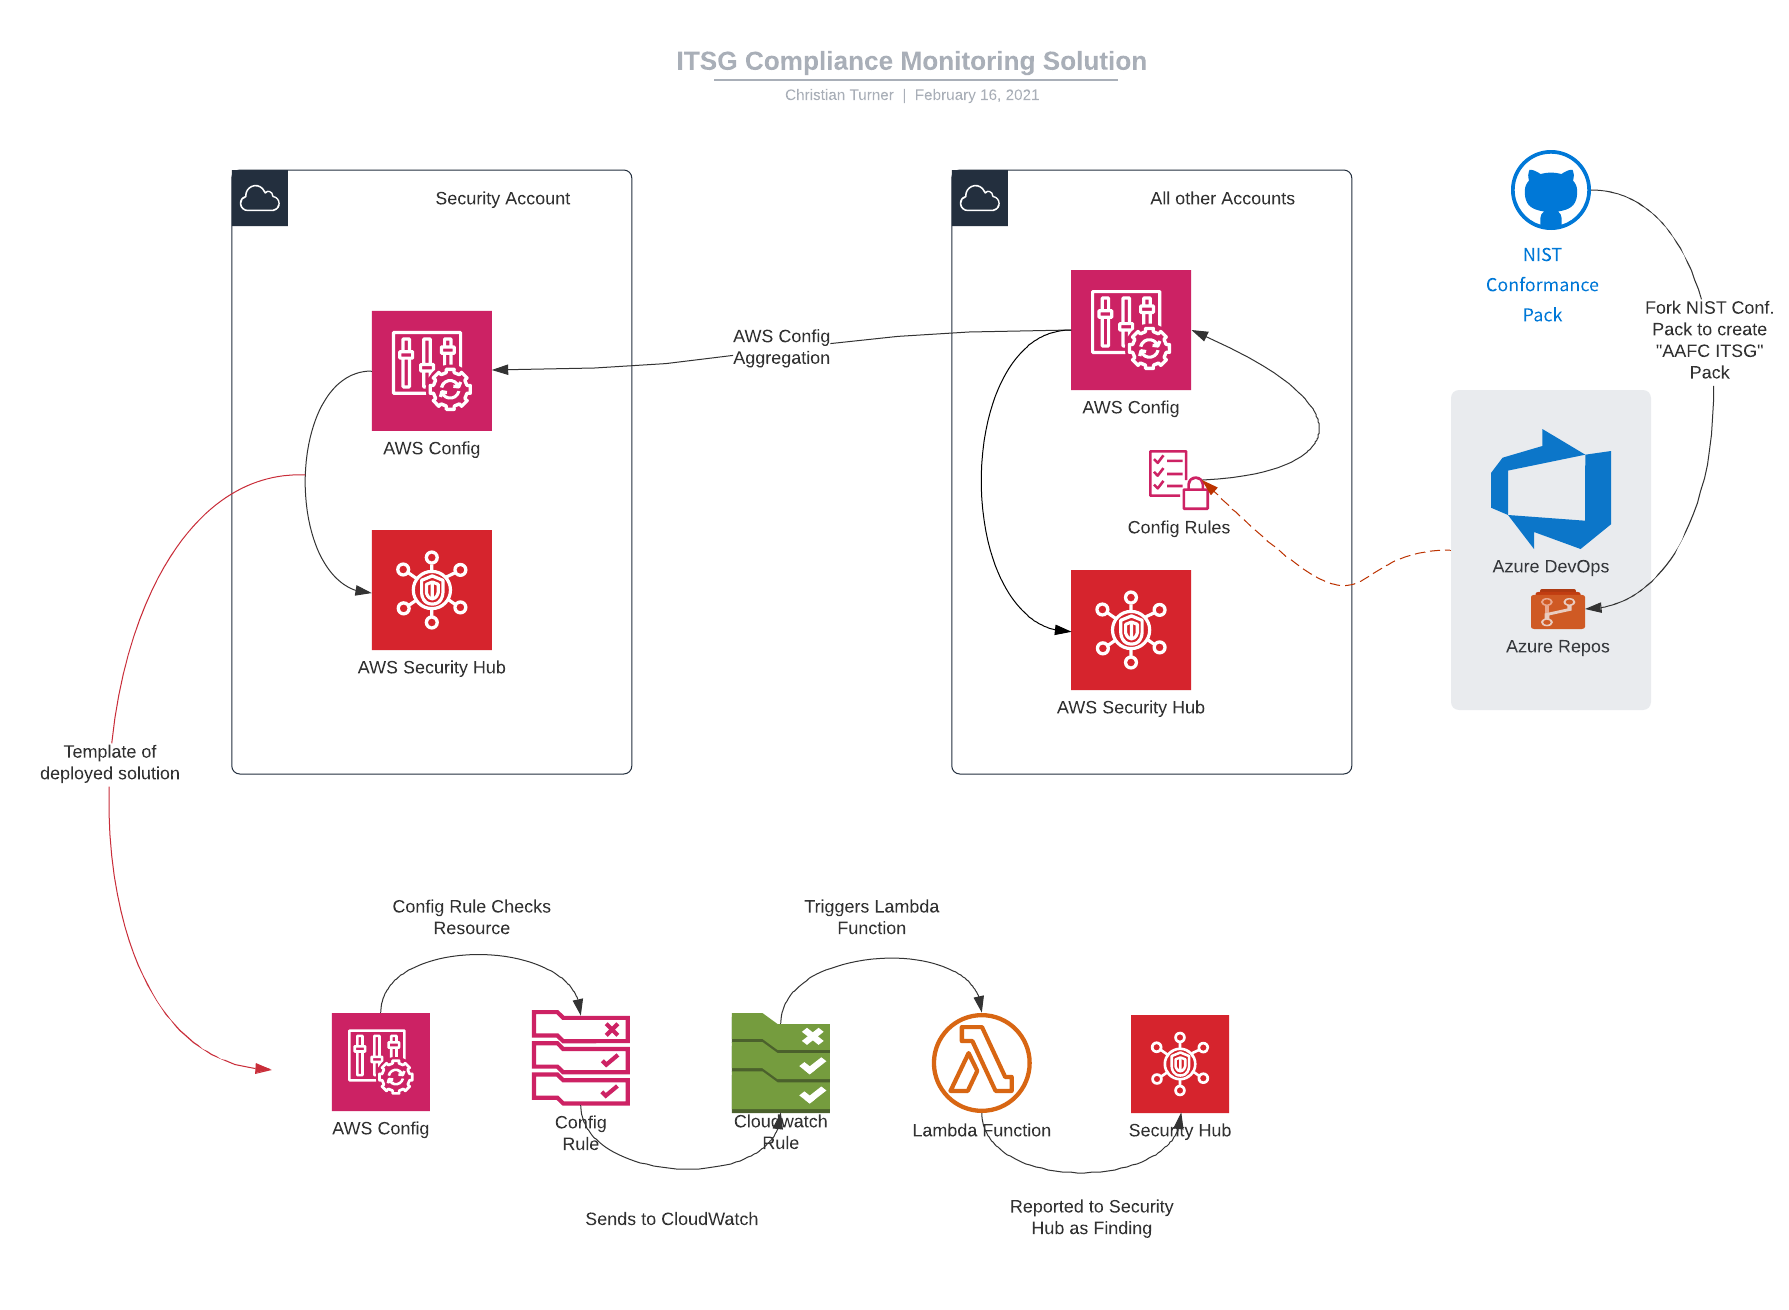
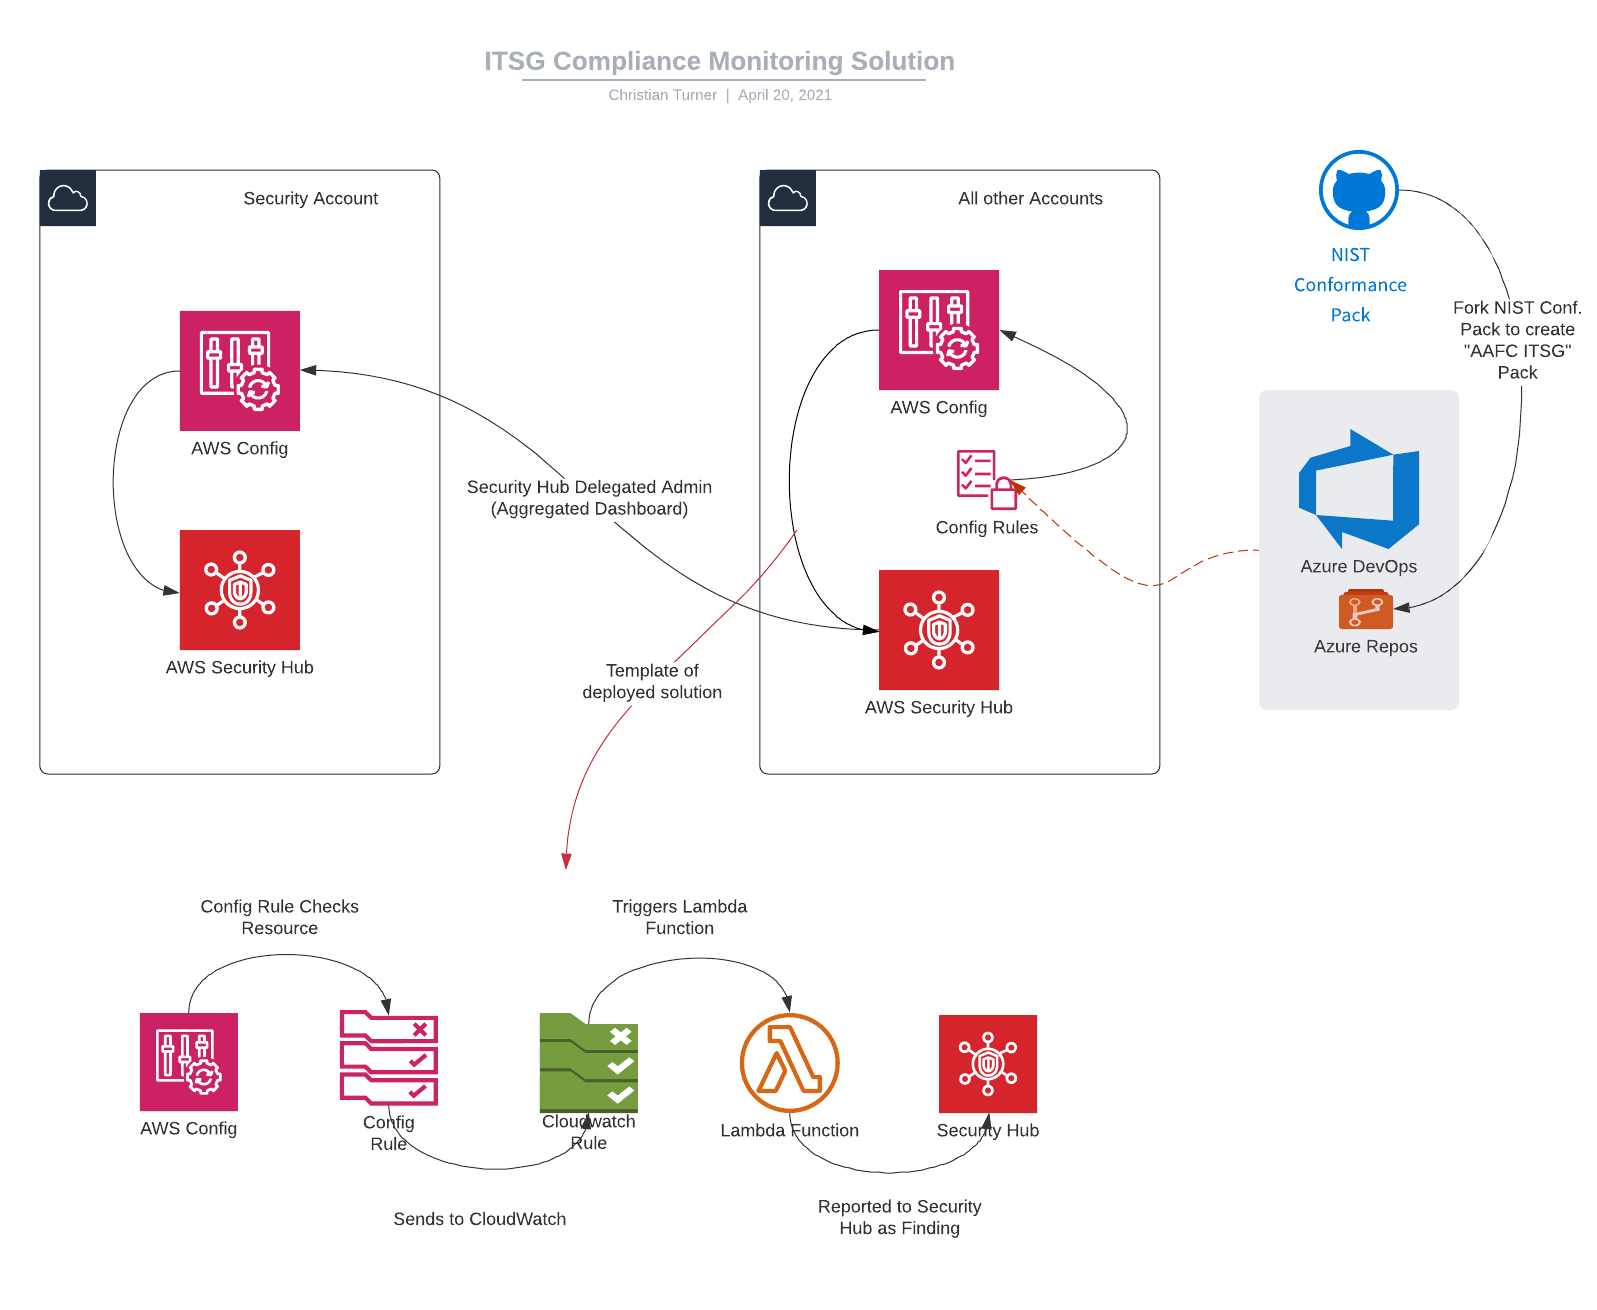
Updated documentation

diff --git a/README.md b/README.md
@@ -5,9 +5,11 @@
 ## Summary
 
 The OCC Compliance Monitoring Solution is deployed to include the following primary services;
-  + AWS Config - NIST 800-53 Rules with customized definitions
+  + AWS Config - Rules based on NIST 800-53 with customized definitions
   + Security Hub
   + Parameter Store
+  + Lambda Function - Forwards AWS Config changes to Security Hub and assigns Severity
+  + Lambda Function - Enables Organizational Delegated Administration to 'Security' account
 
 ![Compliance Monitoring Solution](./images/itsg_compliance_monitoring_solution_overview.png)
 
@@ -15,149 +17,69 @@ The OCC Compliance Monitoring Solution is deployed to include the following prim
 
 #### Order of operations
 
-+ CLI to configure AWS Organizations 
-
-#### Direct API & CLI Functions
-
-+ Create AWS Account 'Security' as Organizations Delegated Administrator 
++ Validation that Security Hub is *NOT* enabled in any AWS Accounts
++ Validation that Organizational Service Control Policies permit the Security Hub actions
++ Terraform parameter configuration
++ Creation of CodePipeline artifact from ./src folder into ./artifacts folder
++ Creation of Lambda Forwarder artifact from ./src folder into ./artifacts folder
++ Deployment of Terraform Code
 
 #### IaC Templates
 
-*Organization Root Account (MRA)*
-+ AWSC Config AWS Stackset (Rules & Import Findings)
+| Short Name | Type | Purpose | filename |
+| --- | --- |--- | --- |
+| Pipeline Deployment | Terraform (v 0.15) | Deploys Pipeline and copies artifacts | ./pipeline.tf |
+| AWS Security Hub | Cloudformation |Enables Security Hub across AWS Organization | ./src/enable-sechub.yml |
+| ITSG Config Rules | Cloudformation |Deploys AWS Config Rules to monitor resources for compliance | ./src/config-rules.yml |
+| SecHub Forwarder | Cloudformation |Deploys the Lambda Function that forwards AWS Config 'change-of-state' results to Security Hub | ./src/config_sechub_integration.yml |
+| SecHub Forwarder | Lambda (Python 3.8) | Lambda Python script that assigns severity to AWS Config results and forwards to Security Hub service | ./src/lambda_map_config_findings_to_sechub.py |
+| SecHub Enabler | Lambda (Python 3.8) | Lambda Python script to configure Security Hub Delegated Admin to the AWS Account named 'Security' | ./src/sechub_enabler.py |
 
-## AWS Config Rules
+#### CloudFormation StackSets
 
-The AWS Config Rules are derived from the NIST 800-53 Conformance Pack.  They are deployed individually to permit us to link to an SSM Parameter Store which is tagged with the ITSG Control ID, as well integrate remediation actions as required.  ITSG rules are deployed only into the Canada region, as this is the only region in which we have deployed infrastrucutre.
+AWS CloudFormation StackSets enables you to create, update, or delete stacks across multiple AWS accounts and AWS Regions with a single operation. StackSets integration with AWS Organizations enables you to create stack sets with service-managed permissions, using a service-linked role that has the relevant permission in each member account. This lets you deploy stack instances to member accounts in your organization. You don't have to create the necessary AWS Identity and Access Management roles; StackSets creates the IAM role in each member account on your behalf. You can also choose to enable automatic deployments to accounts that are added to your organization in the future.
+
+With trusted access between StackSets and Organizations enabled, the management account has permissions to create and manage stack sets for your organization. The management account can register up to five member accounts as delegated administrators. With trusted access enabled, delegated administrators also have permissions to create and manage stack sets for your organization. Stack sets with service-managed permissions are created in the management account, including stack sets that are created by delegated administrators. 
+
+Our deployment via CloudFormation StackSets, against the Organization Root, enables a simplistic 'set-it-and-forget-it' approach for deployment.  StackSets will be deployed to existing AWS Accounts, and any additional AWS Accounts that are creaeted or onboarded to the Organization.
+
+### AWS Config Rules
+
+The AWS Config Rules are derived from the NIST 800-53 Conformance Pack.  They are deployed individually to permit us to link to an SSM Parameter Store which is tagged with the ITSG Control ID, as well integrate remediation actions as required.  By default there are no severity mappings available with AWS Config Rules, so we create a suffix with the severity.
+
+Our naming convention introduces a prefix to define the rule type, and a suffix to define the severity.
+
+![Config Rule Naming Convention](./images/awsconfig_naming_convention.png)
+
+The AWS Config Rules that are deployed are visible to roles that have permissions to work with AWS Config Rules.
 
 ![ITSG Config Rules](./images/awsconfig00.png)
 
-### Pre-requisites
+### Security Hub
 
-+ Authorization - Delegated Administrator:
-  Authorization is not required when using **Add my organization** to select source accounts.
-  - You must be signed in to the management account or a registered delegated administrator and all the features must be enabled in your organization. If the caller is a management account, AWS Config calls *EnableAwsServiceAccess* API to [enable integration](https://docs.aws.amazon.com/organizations/latest/APIReference/API_EnableAWSServiceAccess.html) between AWS Config and AWS Organizations. If the caller is a registered delegated administrator, AWS Config calls *ListDelegatedAdministrators* API to verify whether the caller is a valid delegated administrator.
-  - Ensure that the management account registers delegated administrator for AWS Config service principle name (config.amazonaws.com) before the delegated administrator creates an aggregator. To register a delegated administrator, see [Register a Delegated Administrator](https://docs.aws.amazon.com/config/latest/developerguide/set-up-aggregator-cli.html#register-a-delegated-administrator-cli).
+The Security Hub is configured to display dashboard based reports of Findings from default conformance packs.  The default packs can be utilised, but we supply a custom template replacing them to integrate findings from the Config Rules with specific tags to allocate them as ITSG validations.
 
-[Register a Delegated Administrator](https://docs.aws.amazon.com/config/latest/developerguide/set-up-aggregator-cli.html#register-a-delegated-administrator-cli)
-
-
-## Security Hub
-
-The Security Hub is configured to display dashboard based reports of Findings from default conformance packs.  The default packs are not utilised, with a custom template replacing them to integrate findings from the Config Rules.
+The Security Hub dashboard allows us to easily filter the Findings based on parameters, including the 'Starts with' filter to select 'itsg-' only rules.
 
 ![Security Hub Dashboard](./images/awssecurityhub00.png)
-![ITSG Compliance Dashboard](./images/aws_securityhub_dashboard.png)
 
-### Pre-requisites
+Additional dashboarding can be created, for example reporting on findings by 'Severity.'
 
-+ AWS Config:
-    The service must be enabled on all accounts, with recording enabled reccommended.  This is the default status for AWS Landing Zone deployments, and no action is required
-+ IAM Service Linked Role:  iam-service-linkedrole_AWSServiceRoleForSecurityHub
-    This role is deployed automatically if the service has been manually deployed in the past, and therefore may be pre-exisinting.
-+ Accounts and Regions:
-    If you use AWS Organizations to manage accounts, the organization management account designates the Security Hub administrator account. The Security Hub administrator account must be the same in all Regions. However, the organization management account must designate the Security Hub administrator account separately in each Region. The Security Hub administrator account also manages member accounts separately for each Region.
-    For member accounts created by invitation, the master-member account association is created only in the Region that the invitation is sent from. The master account must enable Security Hub in each Region that you want to use it in. The master account then invites each account to associate as a member account in that Region.
-+ Coordinating master accounts across services:
-    Security Hub aggregates findings from various AWS services, such as Amazon GuardDuty, Amazon Inspector, and Amazon Macie. Security Hub also allows users to pivot from a GuardDuty finding to start an investigation in Amazon Detective.
-    However, the master-member relationships that you set up in these other services do not automatically apply to Security Hub. Security Hub recommends that you use the same account as the master account for all of these services. This master account should be an account that is responsible for security tools. The same account should also be the aggregator account for AWS Config.
+![ITSG Compliance Dashboard Severity](./images/aws_securityhub_dashboard.png)
 
-## Security Hub Deployment
+#### Aggregated View
 
-### Manual Steps - Not supported via IaC
+The Security Hub Service utilises the AWS Organizations service to provide an aggregated view of ALL AWS Account Security Hub findings from the Security Account.  This provides the SecOps team with a consolidated dashboard across the entire AWS Landing Zone for all security findings.  Implementation within the Security Account provides a level of abstracted access that can only be accessed from SecOps roles with valid permissions.
 
-#### Designating a Security Hub administrator account (Security Hub API, AWS CLI)
+![Consolidated Dashboard](./images/aws_securityhub_accounts.png)
 
-To designate the Security Hub administrator account, you can use an API call or the AWS Command Line Interface. You must use the organization management account (Master Root Account) credentials.
+## Deployment Process
 
-To designate the Security Hub administrator account (Security Hub API, AWS CLI)
+As of Terraform 0.15, CloudFormation StackSets cannot be deployed against either OU or ROOT ids using AWS Organizations, and only iteratively against an expanding list of known accounts.  Whilst our preferred method of resource management and deployment is Terraform, utilizing just Terraform would require continuous running of the code to detect new accounts, and potential gaps in coverage between AWS Account creation and solution deployment.
 
-**Security Hub API** – Use the *EnableOrganizationAdminAccount* operation. You must provide the AWS account ID of the Security Hub administrator account.
+The deployment of StackSets against AWS Organizations is moved into a Terraform managed CodePipeline, with discrete stages for each of the types of components deployed.  This enables us a more granular method of management of the solution and the ability to deploy change with small targeted updates made only within the Pipeline steps with chage, whilst the steps that remain the same execute with no change required.
 
-**AWS CLI** – At the command line, run the *enable-organization-admin-account* command.
-
-```bash
-aws securityhub enable-organization-admin-account --admin-account-id <admin account ID>
-```
-
-Example
-
-```bash
-aws securityhub enable-organization-admin-account --admin-account-id 777788889999
-```
-
-#### Removing a Security Hub administrator account (Security Hub API, AWS CLI)
-
-To remove the Security Hub administrator account, you can use an API call or the AWS Command Line Interface. You must use the organization management account credentials.
-
-When you use the API or AWS CLI to remove the Security Hub administrator account, it is only removed in the Region where the API call or command was issued.
-
-To remove the Security Hub administrator account (Security Hub API, AWS CLI)
-
-**Security Hub API** – Use the *DisableOrganizationAdminAccount* operation. You must provide the account ID of the Security Hub administrator account.
-
-**AWS CLI** – At the command line, run the *disable-organization-admin-account* command.
-
-```bash
-aws securityhub disable-organization-admin-account --admin-account-id <admin account ID>
-```
-Example
-```bash
-aws securityhub disable-organization-admin-account --admin-account-id 777788889999
-```
-
-#### Enabling Security Hub automatically for new organization accounts (Security Hub API, AWS CLI)
-
-To determine whether to automatically enable new organization accounts, the Security Hub administrator account can use the Security Hub API or the AWS Command Line Interface.
-
-To automatically enable new organization accounts
-
-**Security Hub API** – Use the UpdateOrganizationConfiguration operation. To automatically enable new organization accounts, set autoEnable to true.
-
-**AWS CLI** – At the command line, run the update-organization-configuration command.
-```bash
-aws securityhub update-organization-configuration --auto-enable
-```
-
-## Config Rules Deployment
-
-### Template Design
-
-The Config Rules that constitute the NIST 800-53 pack have been extracted and converted into standalone rules, deployed within a single template.  The rules have a truncated copy of the *'Rule Description'* added for ease of reference.
-
-Whilst the Config Rules have been reviewed independently by local team members, there is no current attestation to the ITSG standards, and these should be confirmed by deployment security teams.
-
-The template is designed to be deployed as part of an AWS CloudFormation StackSet, applied to the AWS Organization.  The deployment method will ensure automated inclusion into the monitoring solution, and a single code template to manage the rules and components.
-
-The stackset exports the Config Rule ARNs into an SSM Parameter Store, which will allow us to integrate any future IaC in an automated manner.  Within any secondary template, the rules can be referenced without knowing their specific ARN, requiring manual parameter entry or complex code conditioning using additional functions.
-
-[Use of SSM Parameters in Cloudformation](https://docs.aws.amazon.com/AWSCloudFormation/latest/UserGuide/dynamic-references.html)
-```yaml
-Ec2Instance: 
-  Type: AWS::EC2::Instance
-  Properties: 
-    ImageId: '{{resolve:ssm:/aafc/exampleparameterami:1}}' 
-    InstanceType: t2.micro
-```
-
-[Use of SSM Parameters in Terraform](https://registry.terraform.io/providers/hashicorp/aws/latest/docs/data-sources/ssm_parameter)
-```json
-data "aws_ssm_parameter" "ami" {
-  name = "/aafc/exampleparameterami"
-}
-
-resource "aws_instance" "myec2" {
-  ami           = "${data.aws_ssm_parameter.ami.value}" # pull value from parameter store
-  instance_type = "t2.micro"
-}
-```
-
-
-### Aggregation
-
-In addition to the aggregation of the Security Hub findings, we aggregate the AWS Config Rules into the Security account.  This provides a *single pane of glass* view into all deployed rules, including those that are not forwarded to the Security Hub.  
-
-**TBD**
+![Implementation Design](.images/../images/Implementation_Design.png)
 
 ## Appendices
 
